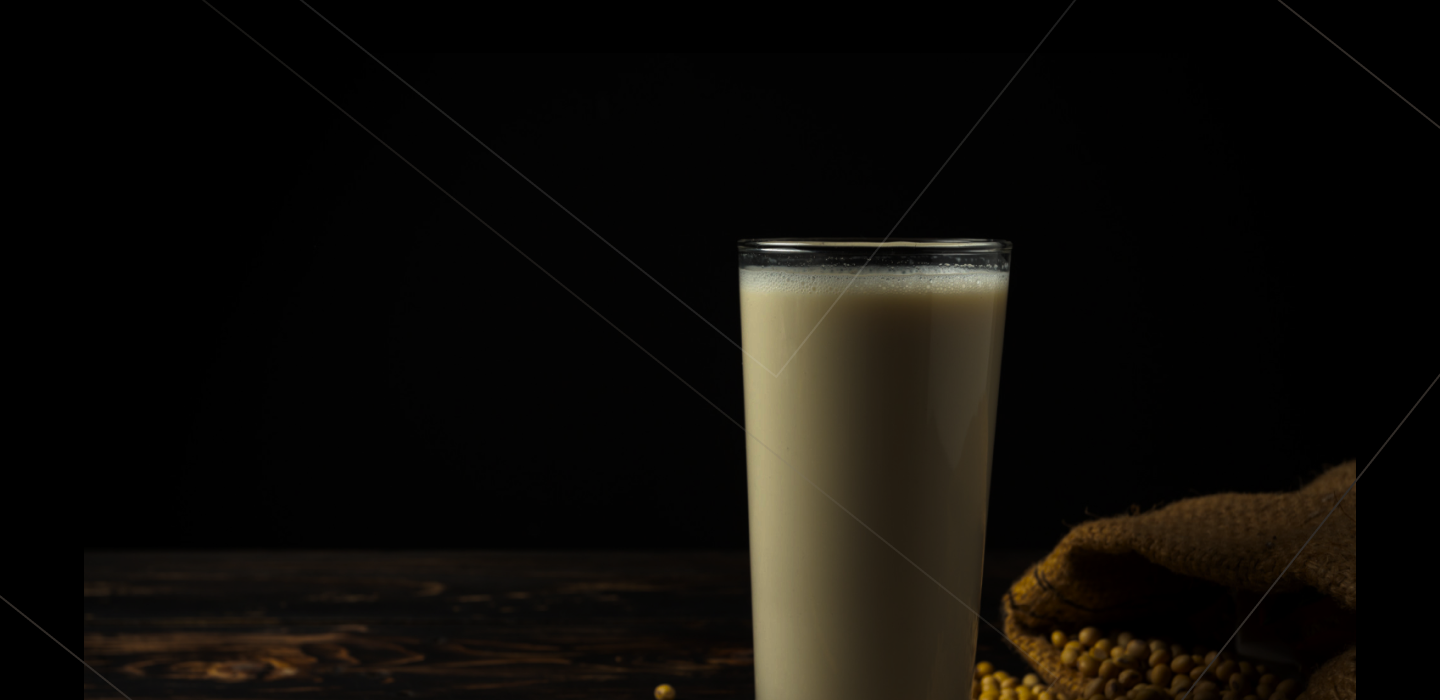
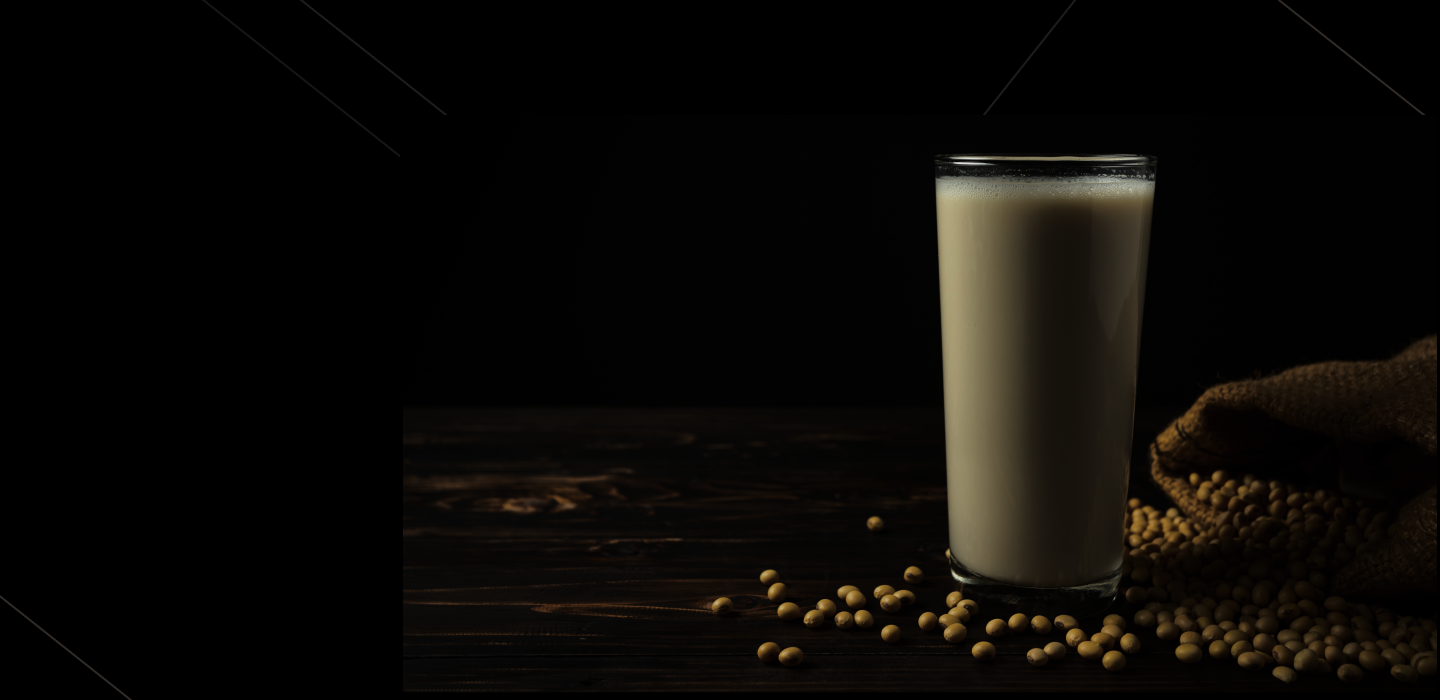
Project Update

diff --git a/src/styles/styles.scss b/src/styles/styles.scss
@@ -594,7 +594,9 @@ p {
 @media (max-width: 767px) {
   .hero {
     background-image: url("/images/heroBgMobile.png");
-    padding: 1rem;
+    padding-top: 5rem;
+    justify-content: start;
+
     img {
       display: none;
     }
